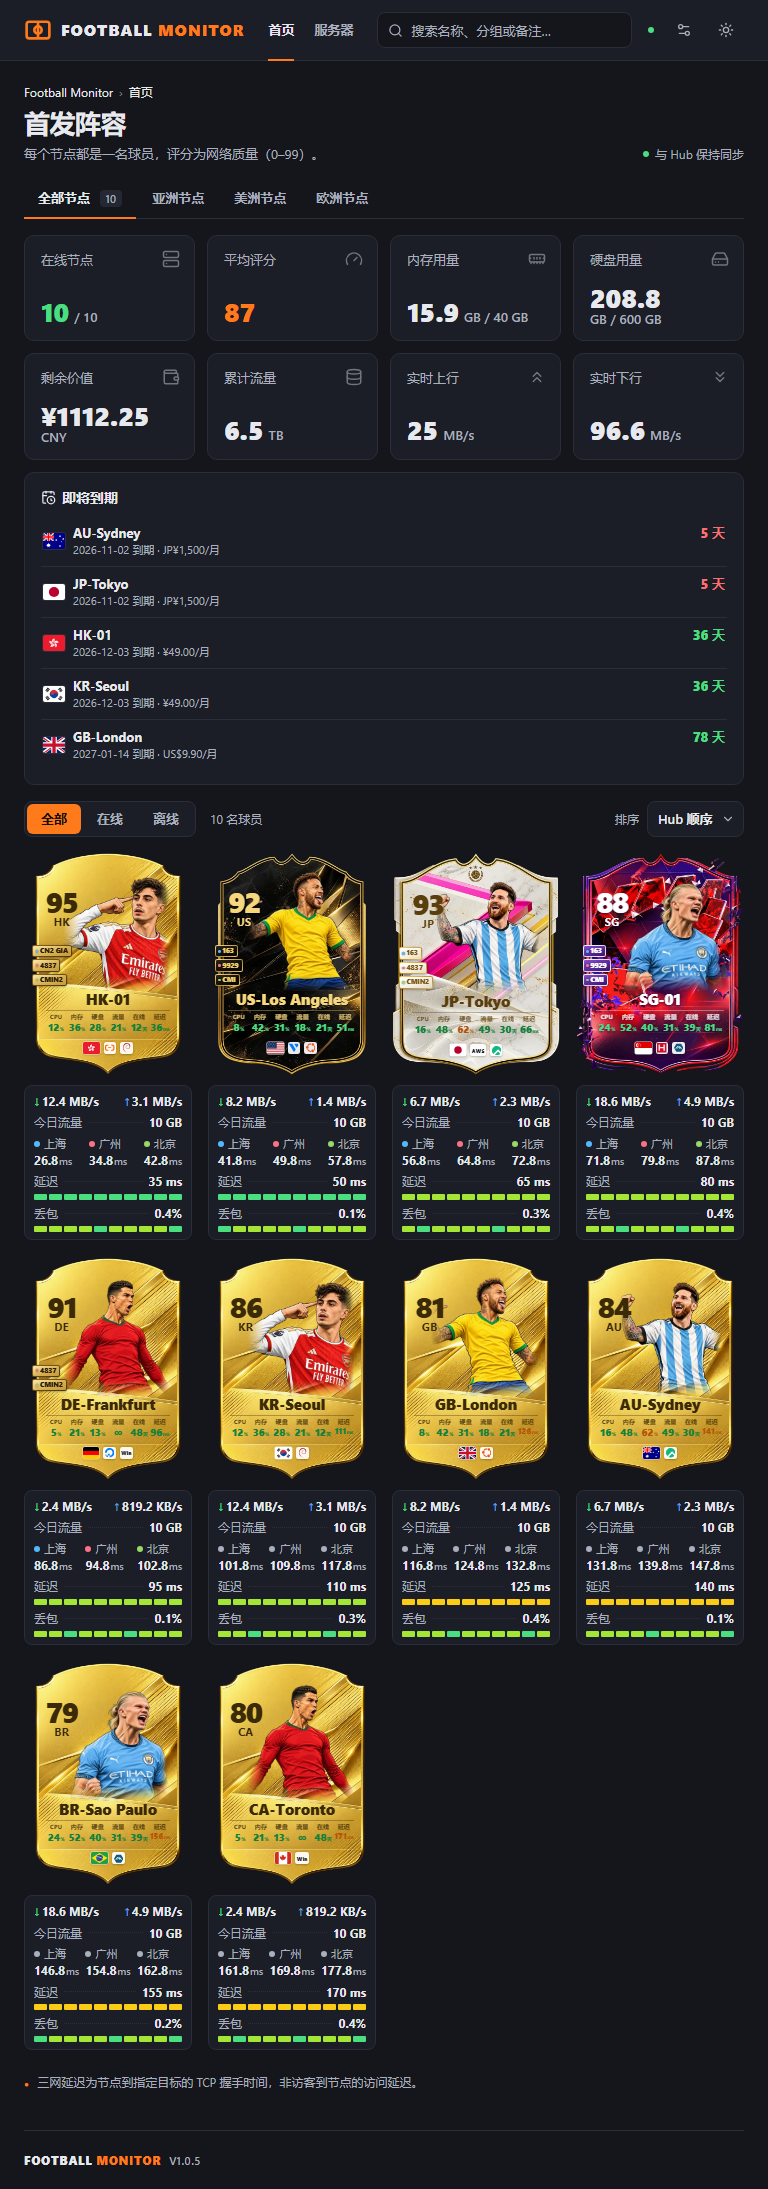
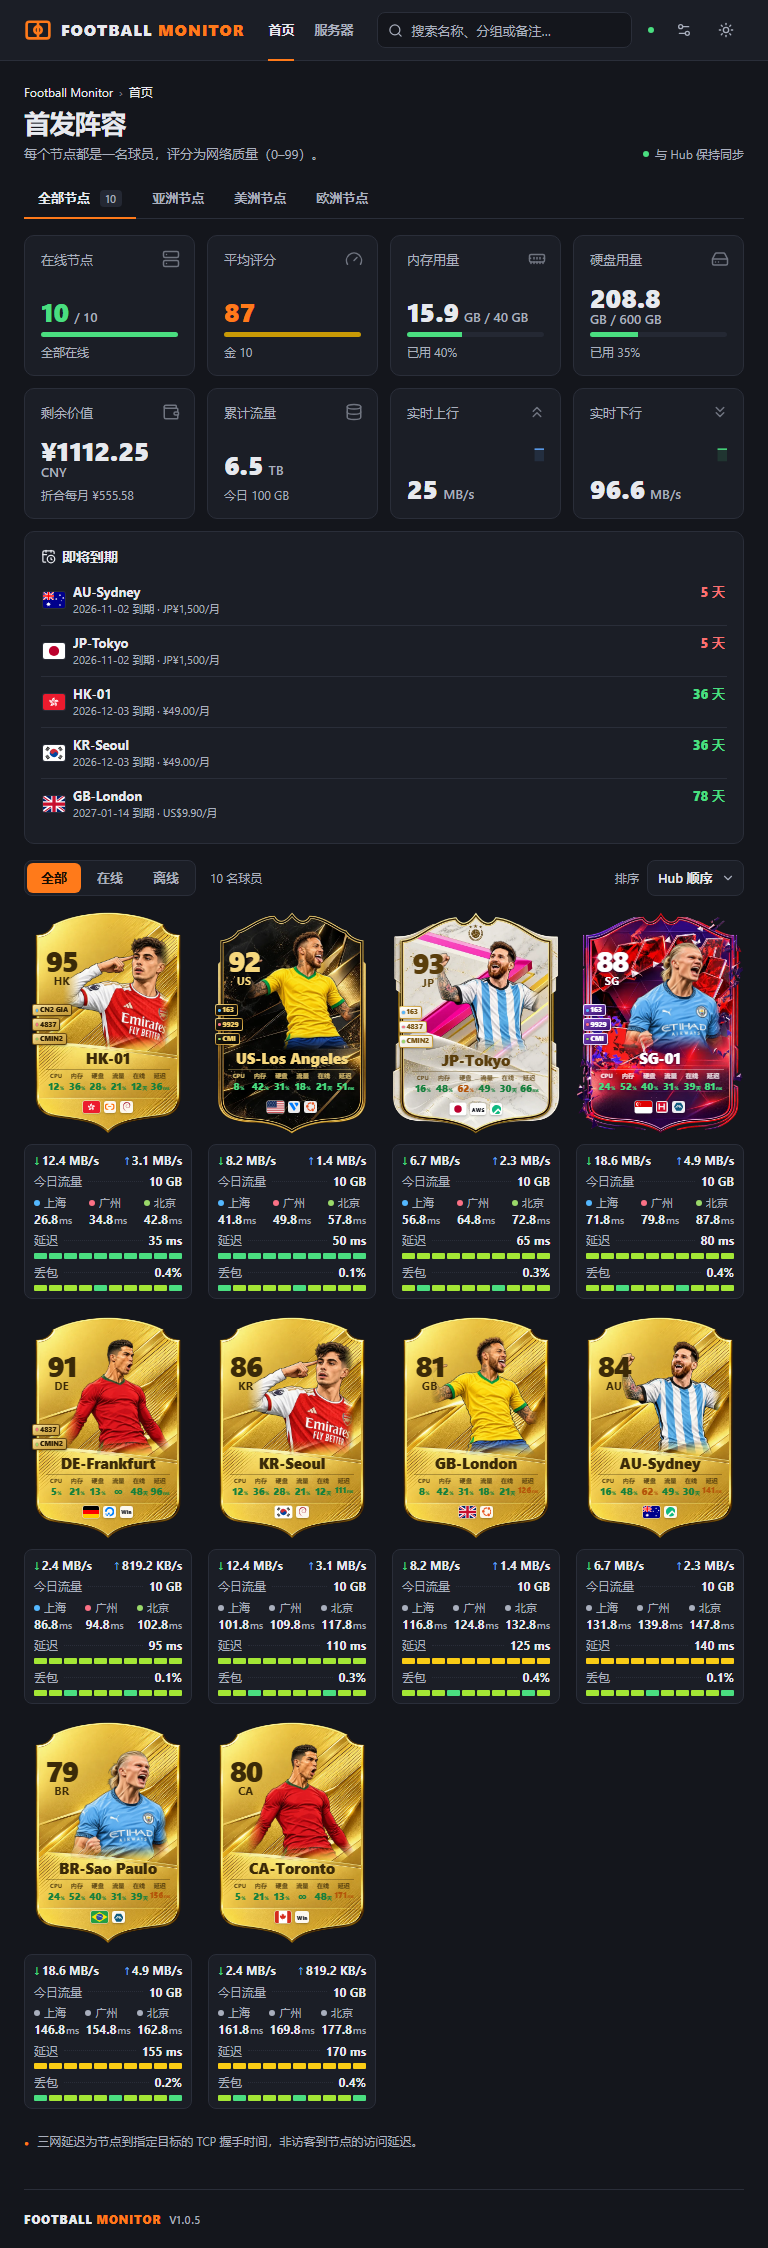
Fill the overview tiles with bars, detail lines and rate sparklines
The tiles stretch to the height of the expiry board and were mostly
empty. Each now carries a second layer: an online share bar, the tier
split of the scored nodes, memory and disk usage bars, the monthly cost
next to the remaining value, today's traffic, and a line of recent fleet
rates in the up and down tiles. fleetSummary adds today's traffic and
the monthly cost in yuan.

diff --git a/src/views/DashboardView.vue b/src/views/DashboardView.vue
@@ -1,5 +1,5 @@
 <script setup lang="ts">
-import { computed, ref, type Component } from 'vue'
+import { computed, ref, watch, type Component } from 'vue'
 import { RouterLink, useRoute, useRouter } from 'vue-router'
 import {
   CalendarClock,
@@ -18,6 +18,7 @@ import { useMonitorStore } from '../stores/monitor'
 import { bytes, cycle, money, rate } from '../domain/format'
 import { expiringSoon, fleetSummary, parseRates } from '../domain/fleet'
 import { flagUrl } from '../domain/flags'
+import { nextTier, type Tier } from '../domain/score'
 import type { MonitorNode } from '../domain/types'
 import { Button } from '../components/ui/button'
 import LiveCard from '../components/LiveCard.vue'
@@ -68,12 +69,64 @@ const split = (text: string) => {
   const i = text.lastIndexOf(' ')
   return i < 0 ? [text, ''] : [text.slice(0, i), text.slice(i + 1)]
 }
-const usage = (used: number, total: number) => {
-  if (!total) return { value: '—', unit: '' }
-  const [value, unit] = split(bytes(used))
-  return { value: value!, unit: `${unit} / ${bytes(total)}` }
+interface Segment {
+  share: number
+  tone: string
 }
-const tiles = computed(() => {
+interface Tile {
+  label: string
+  icon: Component
+  value: string
+  unit?: string
+  tone?: string
+  note?: string
+  /** Shares of a thin bar under the value, 0 to 1. */
+  bar?: Segment[]
+  detail?: string
+  /** Recent rates, oldest first, drawn as a line in the empty space of the tile. */
+  spark?: { kind: 'up' | 'down'; values: number[] }
+}
+const usage = (used: number, total: number): Partial<Tile> => {
+  if (!total) return { value: '—', unit: '' }
+  const [value, unit] = split(bytes(used)),
+    share = used / total
+  return {
+    value: value!,
+    unit: `${unit} / ${bytes(total)}`,
+    // The same thresholds as the card's usage readings.
+    bar: [{ share, tone: share < 0.6 ? 'good' : share < 0.85 ? 'ok' : 'bad' }],
+    detail: `已用 ${Math.round(share * 100)}%`,
+  }
+}
+const TIER_NAMES: Record<Tier, string> = { gold: '金', silver: '银', bronze: '铜' }
+// Tier split of the scored nodes, best first, as on their cards.
+const tierSplit = computed((): Partial<Tile> => {
+  const counts: Record<Tier, number> = { gold: 0, silver: 0, bronze: 0 }
+  for (const n of grouped.value) {
+    const score = overall(n)
+    if (score !== null) counts[store.tiers[n.id] ?? nextTier(score)]++
+  }
+  const shown = (Object.keys(counts) as Tier[]).filter((t) => counts[t]),
+    total = shown.reduce((sum, t) => sum + counts[t], 0)
+  if (!total) return {}
+  return {
+    bar: shown.map((t) => ({ share: counts[t] / total, tone: t })),
+    detail: shown.map((t) => `${TIER_NAMES[t]} ${counts[t]}`).join(' · '),
+  }
+})
+// Fleet rates of the last updates in this group; a group switch starts over.
+const SAMPLES = 30
+const samples = ref<{ rx: number; tx: number }[]>([])
+watch(
+  () => store.updatedAt,
+  (at) => {
+    if (at === null) return
+    const { rx, tx } = summary.value
+    samples.value = [...samples.value, { rx, tx }].slice(-SAMPLES)
+  },
+)
+watch(group, () => (samples.value = []))
+const tiles = computed((): Tile[] => {
   const s = summary.value,
     [traffic, trafficUnit] = split(bytes(s.traffic)),
     [up, upUnit] = split(rate(s.tx)),
@@ -85,10 +138,14 @@ const tiles = computed(() => {
       value: String(s.online),
       unit: `/ ${s.total}`,
       tone: 'summary-online',
+      ...(s.total && {
+        bar: [{ share: s.online / s.total, tone: 'online' }],
+        detail: s.online === s.total ? '全部在线' : `离线 ${s.total - s.online} 台`,
+      }),
     },
-    { label: '平均评分', icon: Gauge, value: average.value, tone: 'summary-score' },
-    { label: '内存用量', icon: MemoryStick, ...usage(s.memUsed, s.memTotal) },
-    { label: '硬盘用量', icon: HardDrive, ...usage(s.diskUsed, s.diskTotal) },
+    { label: '平均评分', icon: Gauge, value: average.value, tone: 'summary-score', ...tierSplit.value },
+    { label: '内存用量', icon: MemoryStick, ...usage(s.memUsed, s.memTotal) } as Tile,
+    { label: '硬盘用量', icon: HardDrive, ...usage(s.diskUsed, s.diskTotal) } as Tile,
     ...(store.config.show_billing
       ? [
           {
@@ -96,15 +153,49 @@ const tiles = computed(() => {
             icon: Wallet,
             value: s.value === null ? '—' : `¥${s.value.toFixed(2)}`,
             unit: s.value === null ? '' : 'CNY',
+            detail: s.monthly === null ? '' : `折合每月 ¥${s.monthly.toFixed(2)}`,
             note: s.uncounted ? `${s.uncounted} 台缺到期日或汇率，未计入` : '',
           },
         ]
       : []),
-    { label: '累计流量', icon: Database, value: traffic!, unit: trafficUnit },
-    { label: '实时上行', icon: ChevronsUp, value: up!, unit: upUnit },
-    { label: '实时下行', icon: ChevronsDown, value: down!, unit: downUnit },
-  ] as { label: string; icon: Component; value: string; unit?: string; tone?: string; note?: string }[]
+    {
+      label: '累计流量',
+      icon: Database,
+      value: traffic!,
+      unit: trafficUnit,
+      detail: `今日 ${bytes(s.today)}`,
+    },
+    {
+      label: '实时上行',
+      icon: ChevronsUp,
+      value: up!,
+      unit: upUnit,
+      spark: { kind: 'up', values: samples.value.map((v) => v.tx) },
+    },
+    {
+      label: '实时下行',
+      icon: ChevronsDown,
+      value: down!,
+      unit: downUnit,
+      spark: { kind: 'down', values: samples.value.map((v) => v.rx) },
+    },
+  ]
 })
+// Sparkline in a 100 × 24 box: the newest sample at the right edge, spread between the lowest and the
+// highest sample; a steady rate runs through the middle.
+const SPARK_STEP = 100 / (SAMPLES - 1)
+function sparkPoints(values: number[]) {
+  const lo = Math.min(...values),
+    hi = Math.max(...values),
+    steady = hi - lo <= hi * 0.02,
+    pts = values.map((v, i) => {
+      const x = 100 - (values.length - 1 - i) * SPARK_STEP,
+        y = steady ? 12 : 22 - ((v - lo) / (hi - lo)) * 20
+      return `${Number(x.toFixed(1))},${Number(y.toFixed(1))}`
+    })
+  const first = pts[0]!.split(',')[0]
+  return { line: pts.join(' '), area: `${first},24 ${pts.join(' ')} 100,24` }
+}
 const daysText = (days: number | null) =>
   days === null ? '' : days < 0 ? `已过期 ${-days} 天` : days === 0 ? '今天' : `${days} 天`
 const level = (days: number | null) =>
@@ -159,10 +250,31 @@ const average = computed(() => {
         <div v-for="t in tiles" :key="t.label" class="summary-stat panel">
           <span class="summary-stat-label">{{ t.label }}</span>
           <component :is="t.icon" class="summary-icon" :size="18" aria-hidden="true" />
-          <strong class="summary-stat-value" :class="t.tone"
-            >{{ t.value }}<small v-if="t.unit">{{ t.unit }}</small></strong
+          <svg
+            v-if="t.spark && t.spark.values.length > 1"
+            class="summary-spark"
+            :data-kind="t.spark.kind"
+            viewBox="0 0 100 24"
+            preserveAspectRatio="none"
+            aria-hidden="true"
           >
-          <span v-if="t.note" class="summary-note">{{ t.note }}</span>
+            <polygon :points="sparkPoints(t.spark.values).area" />
+            <polyline :points="sparkPoints(t.spark.values).line" />
+          </svg>
+          <div class="summary-stat-body">
+            <strong class="summary-stat-value" :class="t.tone"
+              >{{ t.value }}<small v-if="t.unit">{{ t.unit }}</small></strong
+            >
+            <span v-if="t.bar" class="summary-bar" aria-hidden="true"
+              ><i
+                v-for="seg in t.bar"
+                :key="seg.tone"
+                :data-tone="seg.tone"
+                :style="{ width: `${seg.share * 100}%` }"
+            /></span>
+            <span v-if="t.detail" class="summary-detail">{{ t.detail }}</span>
+            <span v-if="t.note" class="summary-note">{{ t.note }}</span>
+          </div>
         </div>
       </section>
       <section v-if="store.config.show_billing" class="expiry-board panel" aria-labelledby="expiry-title">

diff --git a/tests/dashboard.test.ts b/tests/dashboard.test.ts
@@ -211,6 +211,45 @@ describe('dashboard', () => {
     wrapper.unmount()
   })
 
+  it('adds a bar and a detail line under the tile values', async () => {
+    const { wrapper, store } = await mountDashboard()
+    const tile = (label: string) =>
+      wrapper.findAll('.summary-stat').find((s) => s.find('.summary-stat-label').text() === label)!
+    const widths = (label: string) =>
+      tile(label)
+        .findAll('.summary-bar i')
+        .map((i) => [i.attributes('data-tone'), i.attributes('style')])
+    const detail = (label: string) => tile(label).find('.summary-detail').text()
+    expect(widths('在线节点')).toEqual([['online', 'width: 75%;']])
+    expect(detail('在线节点')).toBe('离线 1 台')
+    // Scores 72, 80 and 74: one gold, two silver; the unscored offline node is left out.
+    expect(widths('平均评分')).toEqual([
+      ['gold', expect.stringContaining('width: 33.3')],
+      ['silver', expect.stringContaining('width: 66.6')],
+    ])
+    expect(detail('平均评分')).toBe('金 1 · 银 2')
+    // 118 of 300 bytes.
+    expect(widths('内存用量')).toEqual([['good', expect.stringContaining('width: 39.3')]])
+    expect(detail('内存用量')).toBe('已用 39%')
+    // ¥30 + $10 × 7.10 a month; 法兰克福 D has no price.
+    expect(detail('剩余价值')).toBe('折合每月 ¥101.00')
+    expect(detail('累计流量')).toBe('今日 0 B')
+    expect(tile('实时上行').find('.summary-spark').exists()).toBe(false)
+    store.nodes = fixtures()
+    store.updatedAt = 1
+    await flushPromises()
+    store.nodes = fixtures().map((n) => ({ ...n, metrics: n.metrics && { ...n.metrics, net_tx: 2048 } }))
+    store.updatedAt = 2
+    await flushPromises()
+    // Two updates draw a line through each rate; the newest point is the right end.
+    const line = tile('实时上行').find('.summary-spark polyline').attributes('points')!.split(' ')
+    expect(line).toHaveLength(2)
+    expect(line[1]!.split(',')[1]).toBe('2')
+    expect(tile('实时下行').find('.summary-spark polyline').exists()).toBe(true)
+    expect(tile('在线节点').find('.summary-spark').exists()).toBe(false)
+    wrapper.unmount()
+  })
+
   it('ranks the machines that expire soonest, linking to their details', async () => {
     const { wrapper } = await mountDashboard()
     const rows = wrapper.findAll('.expiry-board li')

diff --git a/src/style.css b/src/style.css
@@ -472,9 +472,83 @@ svg {
   white-space: nowrap;
 }
 .summary-note {
-  margin-top: -8px;
   color: var(--muted);
   font-size: 11px;
+}
+/* Under the value: a thin bar and a detail line; the rate tiles draw their recent line above it. */
+.summary-stat-body {
+  display: flex;
+  flex-direction: column;
+  gap: 6px;
+  min-width: 0;
+}
+.summary-bar {
+  --tier-gold: #c99a06;
+  --tier-silver: #94a3b8;
+  --tier-bronze: #b4693a;
+  display: flex;
+  height: 5px;
+  overflow: hidden;
+  border-radius: 3px;
+  background: var(--surface-raised);
+}
+.summary-bar i {
+  display: block;
+  height: 100%;
+}
+.summary-bar i + i {
+  border-left: 2px solid var(--surface);
+}
+.summary-bar [data-tone='online'],
+.summary-bar [data-tone='good'] {
+  background: var(--success);
+}
+.summary-bar [data-tone='ok'] {
+  background: var(--warning);
+}
+.summary-bar [data-tone='bad'] {
+  background: var(--danger);
+}
+.summary-bar [data-tone='gold'] {
+  background: var(--tier-gold);
+}
+.summary-bar [data-tone='silver'] {
+  background: var(--tier-silver);
+}
+.summary-bar [data-tone='bronze'] {
+  background: var(--tier-bronze);
+}
+.summary-detail {
+  overflow: hidden;
+  color: var(--muted);
+  font-size: 12px;
+  font-variant-numeric: tabular-nums;
+  text-overflow: ellipsis;
+  white-space: nowrap;
+}
+.summary-spark {
+  flex: 1 1 0;
+  width: 100%;
+  min-height: 24px;
+  max-height: 72px;
+  overflow: visible;
+}
+.summary-spark[data-kind='up'] {
+  color: var(--upload);
+}
+.summary-spark[data-kind='down'] {
+  color: var(--download);
+}
+.summary-spark polyline {
+  fill: none;
+  stroke: currentColor;
+  stroke-width: 1.5;
+  stroke-linejoin: round;
+  vector-effect: non-scaling-stroke;
+}
+.summary-spark polygon {
+  fill: currentColor;
+  opacity: 0.12;
 }
 .summary-online {
   color: var(--success);

diff --git a/src/domain/fleet.ts b/src/domain/fleet.ts
@@ -59,8 +59,12 @@ export interface FleetSummary {
   rx: number
   tx: number
   traffic: number
+  /** Today's Hub-booked traffic, offline nodes included. */
+  today: number
   /** Remaining value in yuan; null when no node could be priced. */
   value: number | null
+  /** Renewal prices as a monthly cost in yuan; null when no node could be priced. */
+  monthly: number | null
   /** Paid nodes whose value is unknown (no expiry, unknown cycle or no exchange rate). */
   uncounted: number
 }
@@ -75,11 +79,14 @@ export function fleetSummary(nodes: MonitorNode[], rates: Record<string, number>
     rx: 0,
     tx: 0,
     traffic: 0,
+    today: 0,
     value: null,
+    monthly: null,
     uncounted: 0,
   }
   for (const n of nodes) {
     s.traffic += n.total_rx + n.total_tx
+    s.today += n.day_rx + n.day_tx
     // Offline nodes keep their last report; it is not a live value.
     const m = n.online ? n.metrics : null
     if (n.online) s.online++
@@ -96,6 +103,9 @@ export function fleetSummary(nodes: MonitorNode[], rates: Record<string, number>
       rate = value && (value.amount === 0 ? 1 : rates[value.currency.toUpperCase()])
     if (value && rate) s.value = (s.value ?? 0) + value.amount * rate
     else s.uncounted++
+    const months = n.price === 0 ? 1 : cycleMonths(n.billing_cycle),
+      yuan = n.price === 0 ? 1 : rates[n.currency.toUpperCase()]
+    if (months && yuan) s.monthly = (s.monthly ?? 0) + (n.price / months) * yuan
   }
   return s
 }

diff --git a/tests/fleet.test.ts b/tests/fleet.test.ts
@@ -114,6 +114,30 @@ describe('fleet summary', () => {
     expect(s.uncounted).toBe(2)
     expect(fleetSummary([node(5, { price: null })], rates).value).toBeNull()
   })
+  it("adds up today's traffic, offline nodes included", () => {
+    const s = fleetSummary(
+      [node(1, { day_rx: 3 * GB, day_tx: GB }), node(2, { day_rx: GB, day_tx: 0 }, null)],
+      parseRates(DEFAULT_RATES)!,
+    )
+    expect(s.today).toBe(5 * GB)
+  })
+  it('converts renewal prices to a monthly cost in yuan, expiry or not', () => {
+    const rates = { CNY: 1, USD: 7 }
+    const s = fleetSummary(
+      [
+        node(1),
+        node(2, { price: 120, billing_cycle: 'yearly', currency: 'USD', expires_in: null }),
+        node(3, { price: 0, currency: 'EUR' }),
+        node(4, { billing_cycle: 'lifetime' }),
+        node(5, { currency: 'EUR' }),
+        node(6, { price: null }),
+      ],
+      rates,
+    )
+    // ¥30 + $120 / 12 × 7; the free node adds nothing, unknown cycles and rates are left out.
+    expect(s.monthly).toBeCloseTo(100, 6)
+    expect(fleetSummary([node(6, { price: null })], rates).monthly).toBeNull()
+  })
 })
 
 describe('expiring soon', () => {
